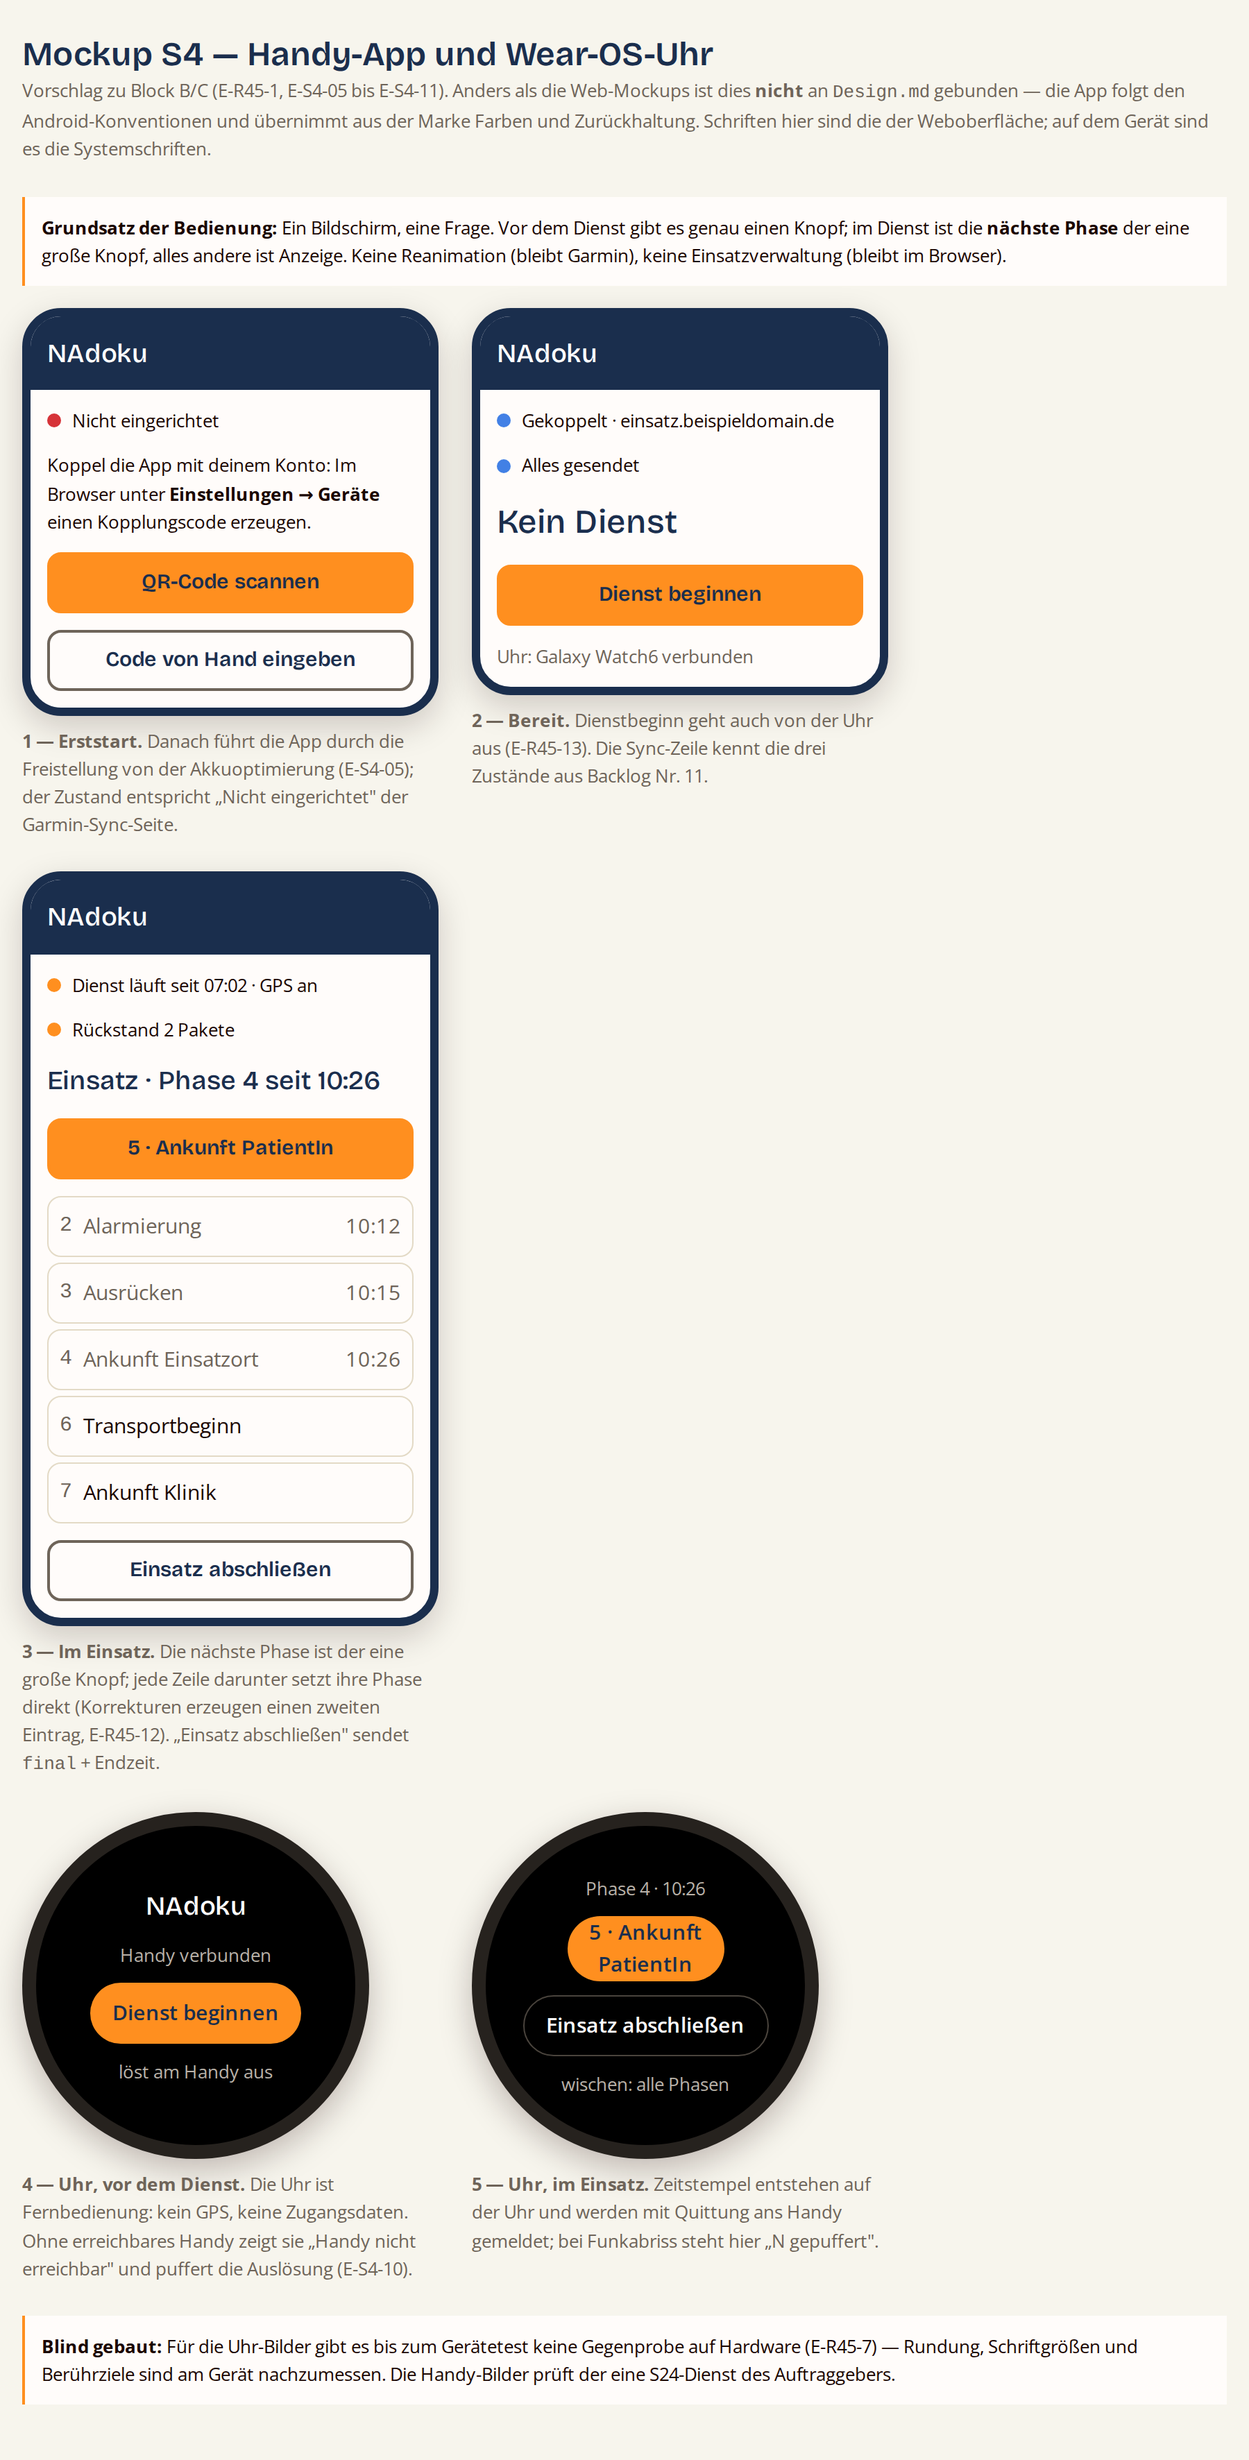
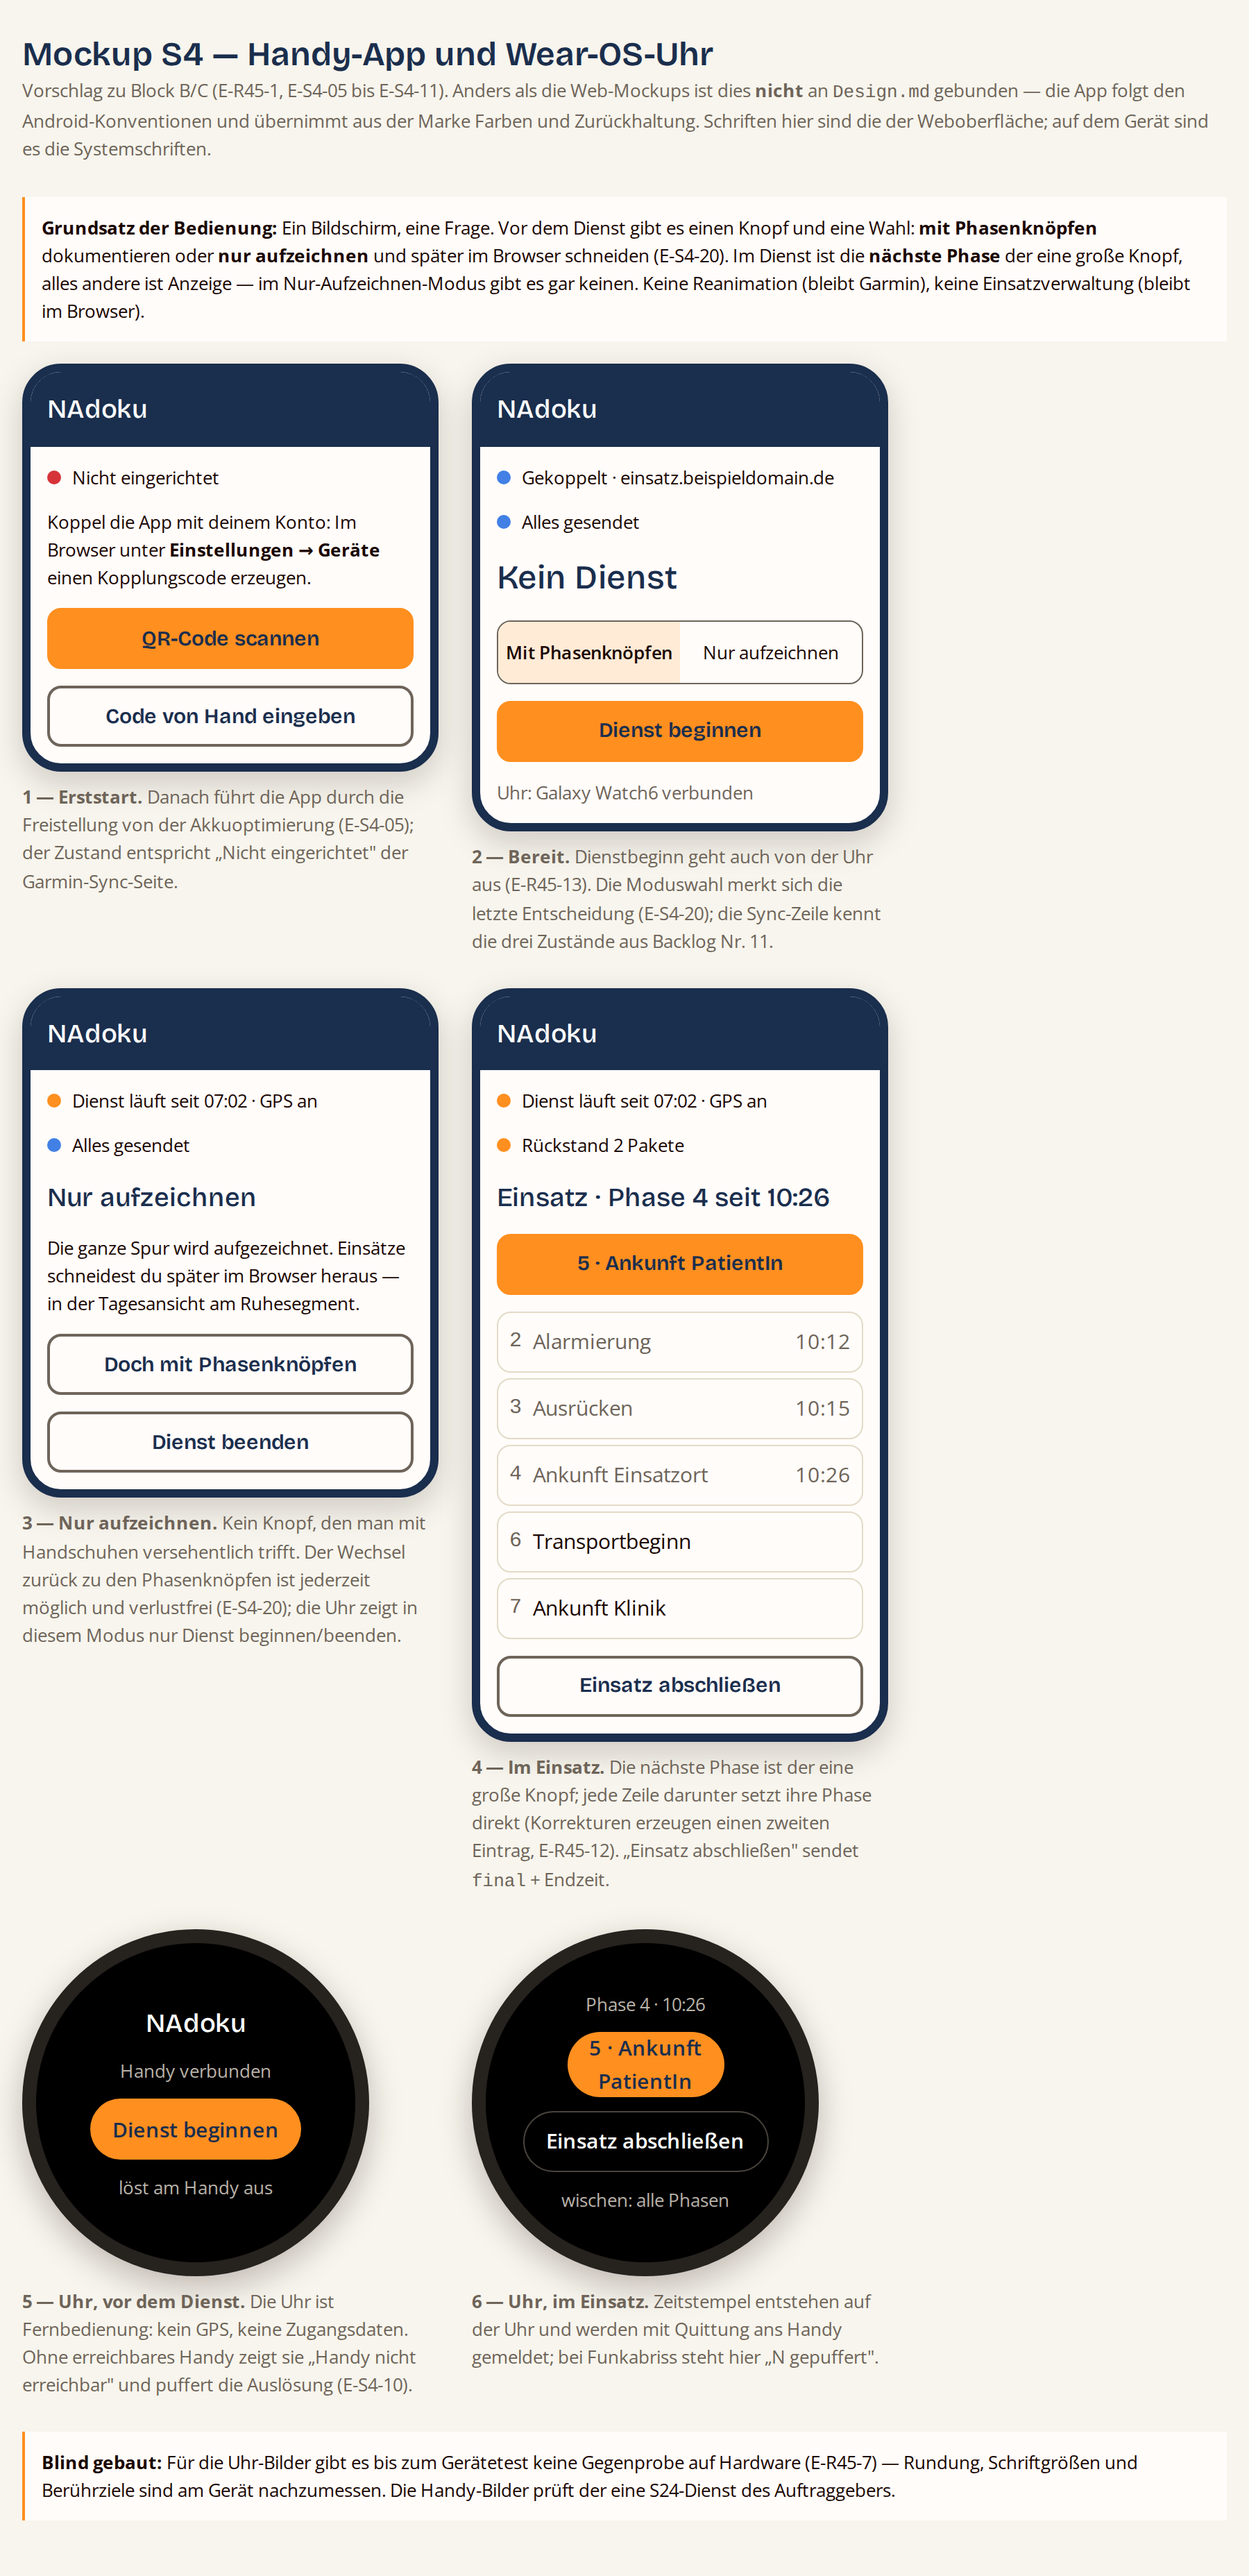
Konzept S4: E-S4-20 — „Nur aufzeichnen" als wählbarer Modus der Handy-App
Auf Anweisung vom 31.08.2026: Beim Dienstbeginn ist wählbar, ob mit
Phasenknöpfen dokumentiert oder nur aufgezeichnet und später im Browser
geschnitten wird. Technisch der benannte Grundzustand (eine
rest_segment-Kette, keine Vertrags- oder Serveränderung), neu ist allein
der Bildschirm ohne Knöpfe samt verlustfreiem Wechsel im Dienst.
Arbeitspakete B3/B5/C1 und App-Mockup nachgezogen.

Claude-Session: https://claude.ai/code/session_01P7rZow1xF26L3ELvYDeen8

Changed region(s): [[0.0, 0.0, 0.9644, 0.9927], [0.7467, 0.9306, 0.8711, 0.9616], [0.1556, 0.9616, 0.1867, 0.9927]]

diff --git a/docs/mockups/S4-app.html b/docs/mockups/S4-app.html
@@ -54,6 +54,14 @@
          border-radius:var(--radius-rund);background:var(--orange);
          color:var(--dunkelblau);font-weight:600;font-size:var(--groesse-3)}
   .uhr-knopf-leise{background:transparent;border:1px solid #4A443D;color:#fff}
+
+  /* ---- Moduswahl (Mockup): eine aus zwei, nebeneinander ---------------- */
+  .modus{display:flex;border:1px solid var(--linie-stark);
+         border-radius:var(--radius);overflow:hidden}
+  .modus span{flex:1 1 50%;min-height:var(--knopf);display:inline-flex;
+         align-items:center;justify-content:center;text-align:center;
+         font-size:var(--groesse-2);padding:0 var(--abstand-1)}
+  .modus .an{background:var(--orange-hell);font-weight:600}
 </style></head><body>
 <div class="buehne">
 
@@ -65,9 +73,12 @@
    Weboberfläche; auf dem Gerät sind es die Systemschriften.</p>
 
 <div class="notiz"><strong>Grundsatz der Bedienung:</strong> Ein Bildschirm, eine
-  Frage. Vor dem Dienst gibt es genau einen Knopf; im Dienst ist die
-  <strong>nächste Phase</strong> der eine große Knopf, alles andere ist Anzeige.
-  Keine Reanimation (bleibt Garmin), keine Einsatzverwaltung (bleibt im Browser).</div>
+  Frage. Vor dem Dienst gibt es einen Knopf und eine Wahl: <strong>mit
+  Phasenknöpfen</strong> dokumentieren oder <strong>nur aufzeichnen</strong> und
+  später im Browser schneiden (E-S4-20). Im Dienst ist die <strong>nächste
+  Phase</strong> der eine große Knopf, alles andere ist Anzeige — im
+  Nur-Aufzeichnen-Modus gibt es gar keinen. Keine Reanimation (bleibt Garmin),
+  keine Einsatzverwaltung (bleibt im Browser).</div>
 
 <div class="reihe">
   <div>
@@ -95,13 +106,37 @@
            einsatz.beispieldomain.de</p>
         <p class="status"><span class="punkt punkt-ok"></span> Alles gesendet</p>
         <p class="gross">Kein Dienst</p>
+        <div class="modus" role="radiogroup" aria-label="Aufzeichnungsmodus">
+          <span class="an">Mit Phasenknöpfen</span><span>Nur aufzeichnen</span>
+        </div>
         <button class="knopf knopf-primaer" type="button"><span>Dienst beginnen</span></button>
         <p class="status" style="color:var(--gedaempft)">Uhr: Galaxy Watch6 verbunden</p>
       </div>
     </div>
     <p class="bild-unterschrift"><strong>2 — Bereit.</strong> Dienstbeginn geht auch
-       von der Uhr aus (E-R45-13). Die Sync-Zeile kennt die drei Zustände aus
-       Backlog Nr. 11.</p>
+       von der Uhr aus (E-R45-13). Die Moduswahl merkt sich die letzte Entscheidung
+       (E-S4-20); die Sync-Zeile kennt die drei Zustände aus Backlog Nr. 11.</p>
+  </div>
+
+  <div>
+    <div class="handy">
+      <div class="handy-kopf">NAdoku</div>
+      <div class="handy-inhalt">
+        <p class="status"><span class="punkt punkt-orange"></span> Dienst läuft seit
+           07:02 · GPS an</p>
+        <p class="status"><span class="punkt punkt-ok"></span> Alles gesendet</p>
+        <p class="gross" style="font-size:var(--groesse-5)">Nur aufzeichnen</p>
+        <p style="margin:0;font-size:var(--groesse-2)">Die ganze Spur wird
+           aufgezeichnet. Einsätze schneidest du später im Browser heraus —
+           in der Tagesansicht am Ruhesegment.</p>
+        <button class="knopf knopf-neutral" type="button"><span>Doch mit Phasenknöpfen</span></button>
+        <button class="knopf knopf-neutral" type="button"><span>Dienst beenden</span></button>
+      </div>
+    </div>
+    <p class="bild-unterschrift"><strong>3 — Nur aufzeichnen.</strong> Kein Knopf,
+       den man mit Handschuhen versehentlich trifft. Der Wechsel zurück zu den
+       Phasenknöpfen ist jederzeit möglich und verlustfrei (E-S4-20); die Uhr
+       zeigt in diesem Modus nur Dienst beginnen/beenden.</p>
   </div>
 
   <div>
@@ -123,7 +158,7 @@
         <button class="knopf knopf-neutral" type="button"><span>Einsatz abschließen</span></button>
       </div>
     </div>
-    <p class="bild-unterschrift"><strong>3 — Im Einsatz.</strong> Die nächste Phase
+    <p class="bild-unterschrift"><strong>4 — Im Einsatz.</strong> Die nächste Phase
        ist der eine große Knopf; jede Zeile darunter setzt ihre Phase direkt
        (Korrekturen erzeugen einen zweiten Eintrag, E-R45-12). „Einsatz
        abschließen" sendet <code>final</code> + Endzeit.</p>
@@ -138,7 +173,7 @@
       <span class="uhr-knopf">Dienst beginnen</span>
       <small>löst am Handy aus</small>
     </div>
-    <p class="bild-unterschrift"><strong>4 — Uhr, vor dem Dienst.</strong> Die Uhr
+    <p class="bild-unterschrift"><strong>5 — Uhr, vor dem Dienst.</strong> Die Uhr
        ist Fernbedienung: kein GPS, keine Zugangsdaten. Ohne erreichbares Handy
        zeigt sie „Handy nicht erreichbar" und puffert die Auslösung (E-S4-10).</p>
   </div>
@@ -150,7 +185,7 @@
       <span class="uhr-knopf uhr-knopf-leise">Einsatz abschließen</span>
       <small>wischen: alle Phasen</small>
     </div>
-    <p class="bild-unterschrift"><strong>5 — Uhr, im Einsatz.</strong> Zeitstempel
+    <p class="bild-unterschrift"><strong>6 — Uhr, im Einsatz.</strong> Zeitstempel
        entstehen auf der Uhr und werden mit Quittung ans Handy gemeldet; bei
        Funkabriss steht hier „N gepuffert".</p>
   </div>

diff --git a/docs/Konzept-S4-Handy-Uhr-Client.md b/docs/Konzept-S4-Handy-Uhr-Client.md
@@ -32,6 +32,12 @@ setzt die Zeitstempel auf der Uhr, puffert bei Funkabriss und meldet über den
 Wear Data Layer ans Handy, das quittiert. Die Phasenknöpfe stehen zusätzlich
 auf dem Handy, damit die App auch ohne Uhr vollständig ist.
 
+Das Schneiden ist dabei nicht nur das Sicherheitsnetz für den vergessenen
+Knopf, sondern ein **wählbarer Arbeitsmodus**: Wer im Einsatz keine Knöpfe
+drücken kann oder will — oder keine Uhr hat —, wählt beim Dienstbeginn
+„Nur aufzeichnen" und schneidet die Einsätze später im Browser heraus
+(E-S4-20).
+
 ## 2. Befund (statische Analyse, Stand `main` = Web 9.15.0 / Uhr 2.0.0)
 
 ### 2.1 Der Vertrag trägt den zweiten Client heute schon
@@ -339,6 +345,23 @@ nicht wiederholt. Die folgenden Entscheidungen füllen sie aus.
   vorliegt. Das Launcher-Symbol beider Module entsteht aus der vorhandenen
   NAdoku-Bildmarke (Rezept `tools/uhr-bilder/`); eine neue Bildsprache
   entsteht nicht.
+- **E-S4-20 — „Nur aufzeichnen" als wählbarer Modus** (Anweisung vom
+  31.08.2026). Beim Dienstbeginn wählt die App zwischen **„Mit
+  Phasenknöpfen"** und **„Nur aufzeichnen (später schneiden)"**; Vorgabe
+  ist die zuletzt getroffene Wahl. Im Nur-Aufzeichnen-Modus zeigen Handy
+  **und** Uhr keine Phasenknöpfe — kein versehentlicher Druck mit
+  Handschuhen, ein Bildschirm ohne Frage; der ganze Dienst entsteht als
+  eine `rest_segment`-Kette und die Einsätze werden im Browser
+  herausgeschnitten (E-R45-3). Technisch ist der Modus kein Sonderweg,
+  sondern der benannte Grundzustand: exakt das Verhalten eines Dienstes,
+  in dem nie eine Phase gesetzt wird — am Vertrag, am Server und an der
+  Sendelogik ändert er **nichts**, nur an dem, was der Bildschirm
+  anbietet. Ein **Wechsel während des Dienstes** ist jederzeit möglich und
+  verlustfrei: Er blendet die Knöpfe ein oder aus, bereits Gesendetes
+  bleibt unberührt (ein Umstieg auf „mit Knöpfen" schließt das laufende
+  Segment erst, wenn tatsächlich eine Phase gesetzt wird — wie bisher).
+  Der Modus wandert über den Nachrichtenweg zur Uhr; sie zeigt dann nur
+  Dienst beginnen/beenden.
 
 ## 4. Offene Fragen
 
@@ -401,7 +424,8 @@ Kopplung gegen die Container-Installation.
 
 **B3 — Aufzeichnung und Dienstklammer.**
 Vordergrunddienst (E-S4-05), Ausdünnung, SQLite-Puffer, Dienst
-starten/beenden, Neustart-Wiederaufnahme (App-Absturz und Handy-Neustart
+starten/beenden mit der Moduswahl „Mit Phasenknöpfen / Nur aufzeichnen"
+(E-S4-20), Neustart-Wiederaufnahme (App-Absturz und Handy-Neustart
 während des Dienstes), Erststart-Führung zur Akku-Freistellung.
 *Abnahme:* synthetischer Positionsstrom → Punktfolge nach der
 15 m/10 s-Regel (Soll-Zahlen je Strom im Prüfprotokoll);
@@ -421,17 +445,22 @@ Kette) mit je einem Fall.
 **B5 — Phasen und Einsätze am Handy.**
 Phasenknöpfe 2–9, Einsatzbeginn/-abschluss, Lebenszyklus (E-S4-08),
 Phasen-Koordinaten aus der eigenen Spur, `mission`-Uploads mit
-Teil-Uploads.
+Teil-Uploads; im Nur-Aufzeichnen-Modus sind die Knöpfe ausgeblendet und
+der Moduswechsel während des Dienstes verlustfrei (E-S4-20).
 *Abnahme:* Lebenszyklus-Matrix (Phase ohne Einsatz startet Einsatz;
 Abschluss sendet `final` + `ended_at`; Segment davor/danach nahtlos);
 `mission`-Ketten laufen gegen `ingest.php` wie in B4 (0/0/0); doppelte
-Phaseneinträge bleiben erhalten (E-R45-12 nachgestellt).
+Phaseneinträge bleiben erhalten (E-R45-12 nachgestellt); ein
+Nur-Aufzeichnen-Dienst erzeugt genau eine Segmentkette und keine
+`mission`, und der Moduswechsel mitten im Dienst ändert nichts an bereits
+Gesendetem (je ein Fall).
 
 ### Block C — Wear-OS-App (`android/uhr/`)
 
 **C1 — Gerüst und Bedienbild.**
 Modul `uhr/`, Oberflächen nach E-S4-11 (Dienst, Phasen, Einsatzabschluss,
-Verbindungszustand), blind gebaut.
+Verbindungszustand; im Nur-Aufzeichnen-Modus nur Dienst
+beginnen/beenden, E-S4-20), blind gebaut.
 *Abnahme:* Modul baut im selben Gradle-Lauf; die Bedienzustände sind als
 Robolectric-Fälle belegt (Zahl im Prüfprotokoll); Bildschirmfotos gibt es
 nicht (kein Emulator) — das steht so im Prüfdokument, nicht verschwiegen.
